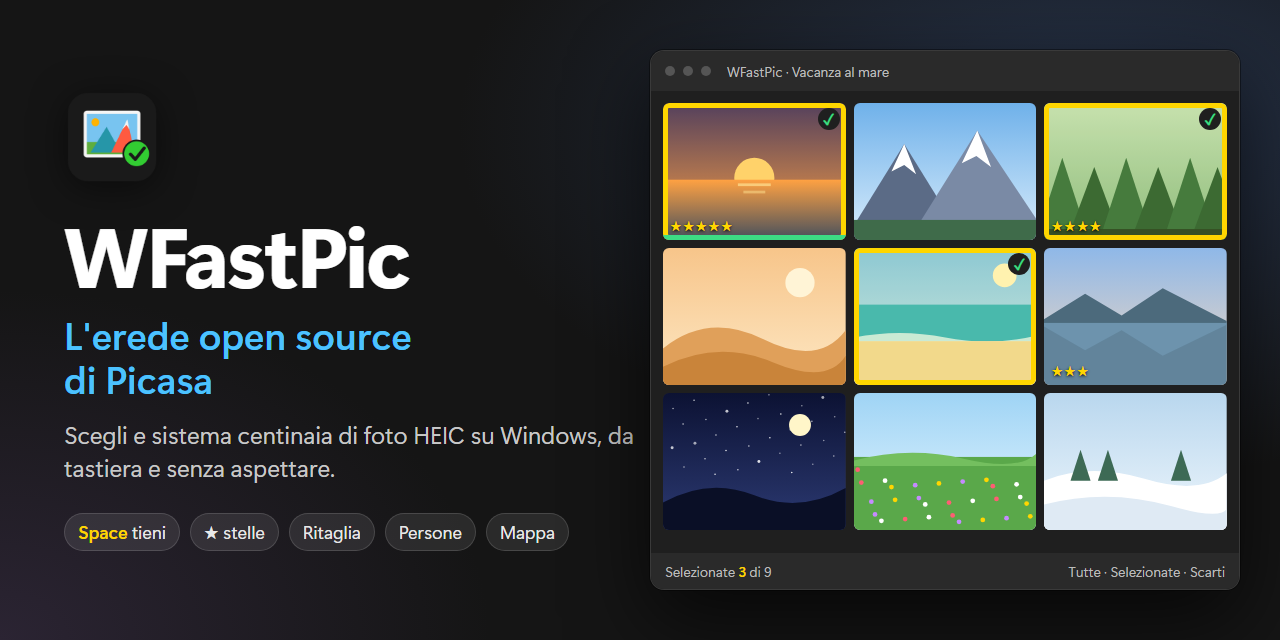
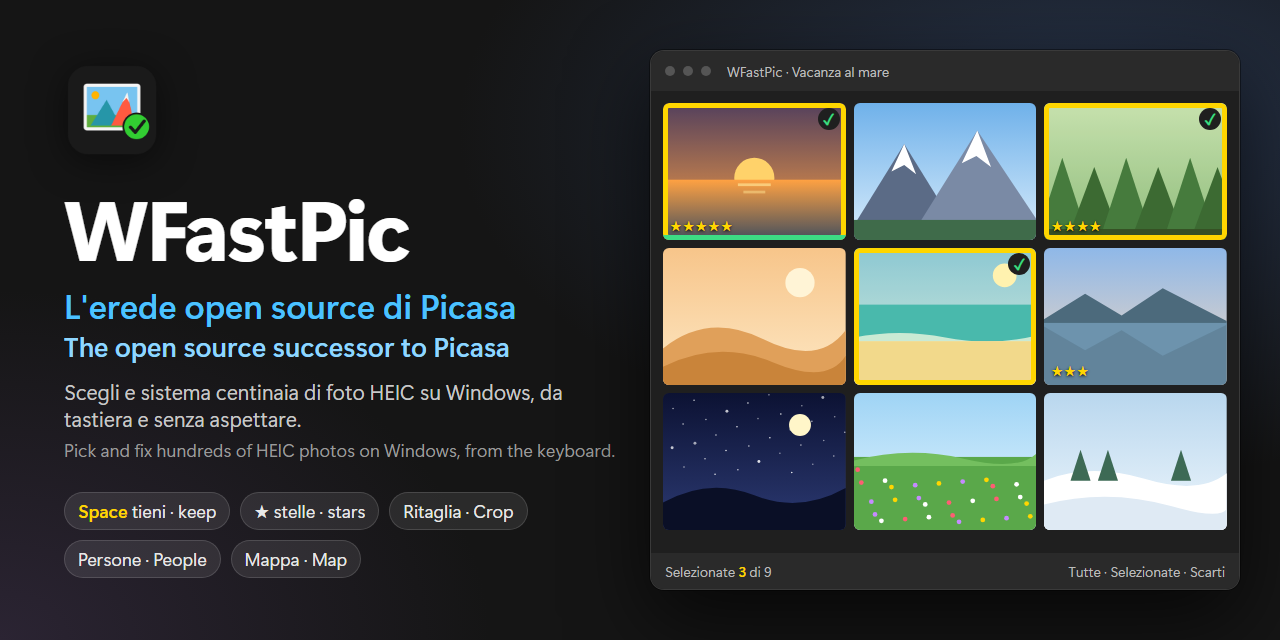
Versione in inglese: README.en.md, CHANGELOG.en.md e social preview bilingue

Changed region(s): [[0.0312, 0.3125, 0.5, 0.75], [0.0625, 0.7812, 0.4375, 0.9062], [0.0625, 0.125, 0.125, 0.2812]]

diff --git a/assets/social-preview.html b/assets/social-preview.html
@@ -24,7 +24,10 @@
   .logo { width: 96px; height: 96px; margin-bottom: 26px; filter: drop-shadow(0 6px 18px rgba(0,0,0,.5)); }
   h1 { font-size: 84px; font-weight: 700; letter-spacing: -2px; line-height: 1; }
   .erede { margin-top: 18px; font-size: 38px; font-weight: 600; line-height: 1.15; color: #4cc2ff; }
-  .sotto { margin-top: 18px; font-size: 24px; line-height: 1.35; color: #c8c8c8; }
+  .erede { font-size: 34px; }
+  .erede.en { margin-top: 6px; font-size: 27px; font-weight: 500; color: #8fd6ff; }
+  .sotto { margin-top: 16px; font-size: 21px; line-height: 1.3; color: #c8c8c8; }
+  .sotto.en { margin-top: 6px; font-size: 18px; color: #9a9a9a; }
   .tag { margin-top: 30px; display: flex; flex-wrap: wrap; gap: 10px; }
   .tag span { font-size: 18px; padding: 6px 13px; border-radius: 999px; background: rgba(255,255,255,.09); border: 1px solid rgba(255,255,255,.14); color: #e8e8e8; }
   .tag b { color: #ffd600; font-weight: 600; }
@@ -53,9 +56,11 @@
   <div class="testo">
     <img class="logo" src="icon-256.png" alt="">
     <h1>WFastPic</h1>
-    <div class="erede">L'erede open source<br>di Picasa</div>
+    <div class="erede">L'erede open source di Picasa</div>
+    <div class="erede en">The open source successor to Picasa</div>
     <div class="sotto">Scegli e sistema centinaia di foto HEIC su Windows, da tastiera e senza aspettare.</div>
-    <div class="tag"><span><b>Space</b> tieni</span><span>★ stelle</span><span>Ritaglia</span><span>Persone</span><span>Mappa</span></div>
+    <div class="sotto en">Pick and fix hundreds of HEIC photos on Windows, from the keyboard.</div>
+    <div class="tag"><span><b>Space</b> tieni · keep</span><span>★ stelle · stars</span><span>Ritaglia · Crop</span><span>Persone · People</span><span>Mappa · Map</span></div>
   </div>
 
   <div class="finestra">

diff --git a/CHANGELOG.en.md b/CHANGELOG.en.md
@@ -1,0 +1,96 @@
+# Changelog
+
+What is new in WFastPic, version by version. The newest is on top. ([Italiano](CHANGELOG.md))
+Technical details (bug causes, files touched) are in [`doc/correzioni-e-novita.md`](doc/correzioni-e-novita.md) (in Italian).
+The app interface is in Italian: names of buttons and menus below are given as they appear in the app.
+
+## [0.9.1] — 2026-10-10
+
+### New
+- **Faster export**: photos are processed 4 at a time (3 at original size) instead of one by one: about
+  twice as fast at 2048 px and up to 3 times as fast at original size.
+- **Estimated time in export**: "N of M · about X remaining", and how long it took when finished.
+- **People, "Same person as…" ("È la stessa persona di…")** with faces: a large round avatar, name and
+  photo count for each person, instead of a text-only menu. After merging, the list and the photos below
+  update: if you were looking at that group, you see the person who remains with all their photos.
+- **Crop and straighten together**, like Picasa: while cropping, the straighten slider sits under the
+  photo (wider and more precise, with marks every 5° and a "0°" button to clear it).
+- **Landscape/portrait crop**: the crop box can be flipped (4:3 ↔ 3:4, 16:9 ↔ 9:16) with the button next
+  to "Proporzioni" (Ratios) or with the `O` key.
+- **About WFastPic** (bottom right): version, license, links to the project and the changelog, credits,
+  the app data folder.
+- MIT license included in the repository.
+
+### Fixed
+- **Stretched portrait photos**: photos with a 90° EXIF orientation (typical of phones, in JPEG) appeared
+  stretched wide in the viewer, in the editor and in export. They now keep the right proportions.
+- People: face analysis worked on those same stretched images; for more faithful recognition on such
+  photos, use "Rianalizza le persone" (Re-analyze people).
+
+## [0.9] — 2026-10-10
+
+### New
+
+**Editor (viewer)**
+- **Rotate 90° and flip**: ↺ ↻ and Specchia (Flip) buttons in the basic corrections, `R` / `Shift+R`
+  keys. A photo that is already cropped keeps the same crop, just rotated. It also applies to export, and
+  thumbnails in the grid and filmstrip rotate immediately. Like every edit, the original is never touched.
+- **Three columns**: edits on the left, photo details on the right, both collapsible from the "Modifiche"
+  and "Dettagli" buttons at the top. The app remembers how you leave them.
+- **Photo details**: weekday, date and time shot, name, file size and format, position in the burst,
+  place with mini-map and shooting data.
+- **Photos from the same burst** shown small next to the photo: above it if landscape, beside it if
+  portrait. One click opens that photo, so you pick the best one on the fly.
+- **Faster browsing**: while a photo loads you immediately see its enlarged thumbnail; the next 5 photos in
+  the direction you are browsing are prepared in advance.
+- New look: "← Grid · name · N of M" bar, card-style panel with segmented tabs and buttons with icon and
+  shortcut, filmstrip centered under the photo, solid background.
+
+**Main window**
+- New Windows 11 look: integrated title bar, dark theme, grid on a darker background with rounded thumbnails.
+- The toolbar no longer overflows the window: when narrow, By day / Map / Rejects show only their icon.
+  "Esporta" (Export) is the highlighted action.
+- Welcome screen with "Apri una cartella…" (Open a folder…); clear messages if the folder has no photos or
+  if the filter finds nothing.
+- Counts (photos, selected, rejects) in the bottom bar; all shortcuts in a "Scorciatoie" (Shortcuts) panel.
+- **Resumes where you left off**: on restart you go back to the last photo you looked at, in the viewer if
+  it was open.
+
+**People**
+- Picasa-style people recognition (optional, asked on first use, entirely on your PC): groups of similar
+  faces, names valid across all folders, automatic suggestions, filter by person.
+- People list in the side panel, alphabetical, with the photo count in other folders too. Rename,
+  "Same person as…" (with Undo), change picture, delete.
+
+**Other**
+- "Original" ratio (the photo's own) among the crops.
+- Folder panel hidden while using the editor, restored on exit.
+
+### Fixed
+- The "Lettura foto…" (Reading photos…) box could stay over the grid forever if reading the folder ended
+  just as it was about to appear.
+- While browsing, a photo already being prepared in advance was decoded a second time.
+- Names given to people during analysis were not applied to the photos analyzed afterwards.
+- `OverflowException` crash while reading a folder.
+
+## [0.8] — 2026-10-10
+
+### New
+- **Picasa-style folder panel**, fixed next to the grid: folders split by year shot, with photo count and
+  period; "Open in File Explorer" / "Remove from list"; "Browse PC" to open new ones.
+- **Faces**: background search once the grid is ready, "With faces" filter; suggested crops never cut faces.
+- **Location correction on a large map** in place of the photo (map or satellite, down to street level zoom).
+- While cropping, the composition grid follows the crop box.
+- Edit symbols (crop, straighten, color) on thumbnails, updated live.
+- Version shown in the window title.
+
+## Before 0.8
+
+The first, unnumbered versions built the foundations of the app:
+- fast reading of HEIC folders with a sidecar per folder (original photos are never written);
+- grid with keyboard selection, stars, safe rejects (Recycle Bin or `Scarti/` folder, paired video always
+  together with the photo), bursts and "keep this one, reject the others";
+- viewer with filmstrip, zoom and Picasa-style editor: crop, straighten, I'm Feeling Lucky, adjustments, undo;
+- suggested crops, full screen (F11), grid split by day;
+- places with names from OpenStreetMap, photo map, shooting data (including DJI drones);
+- Picasa-style JPEG export with resizing, watermark, tags and metadata (date, GPS).

diff --git a/README.en.md b/README.en.md
@@ -1,0 +1,116 @@
+<p align="center">
+  <img src="assets/icon-256.png" width="96" alt="WFastPic logo">
+</p>
+
+# WFastPic
+
+**The open source successor to Google Picasa for Windows: pick and fix hundreds of photos fast.**
+Current version: **0.9.1** · [Download](https://github.com/Walt7/WFastPic/releases/latest) ·
+[Changelog](CHANGELOG.en.md) · [Italiano](README.md)
+
+Google stopped developing Picasa in 2016, and it does not read the HEIC photos phones take today.
+WFastPic keeps the way Picasa worked — folders by year, the space bar to keep the good shots,
+one-click fixes, people, map, export — and is built for large photo collections, especially **HEIC**
+(iPhones, drones, cameras): open the vacation folder, keep the best, reject the rest, make a few quick
+fixes and export. All from the keyboard, without ever waiting.
+
+It is not Lightroom and not a file manager: it is the tool for going from 1,300 shots to the 80 photos
+worth keeping, in as few gestures as possible.
+
+> The app interface is in Italian. Everything else (this page, the changelog) is available in both languages.
+
+## From Picasa to WFastPic
+
+| In Picasa | In WFastPic |
+|---|---|
+| Folders grouped by year | Folder panel by year, with photo count and period |
+| Stars and "kept" photos | `Space` selects, `0`–`5` stars, `Delete` rejects (never an irreversible delete) |
+| "I'm Feeling Lucky" | `U`: automatic contrast and color in one go |
+| Crop and straighten | Crop with ratios and suggested crops, straightening together with cropping |
+| People (named faces) | Face recognition on your PC, names shared across folders, "Same person as…" |
+| Photos on a map | Photo map and place names |
+| Export | Resized JPEGs, watermark, tags, date and GPS preserved |
+| — | Bursts detected automatically, HEIC photos, Live Photos, DJI drone data |
+
+**What is not there (by choice or not yet):** collages and slideshows, web albums, video playback,
+advanced photo editing (curves, masks). WFastPic does not upload your photos anywhere.
+
+## What it does
+
+**Pick**
+- Fast grid even with thousands of photos, in shooting order, optionally split by day.
+- `Space` selects, `Delete` rejects, `0`–`5` stars, `Tab` switches the filter.
+- **Bursts** detected automatically (photos taken seconds apart): `Shift+Space` keeps this one and
+  rejects the rest of the group. In the editor the photos of the same burst appear small next to the
+  photo, so you can compare them at a glance.
+- Rejects are never deleted by accident: they go to the Windows Recycle Bin (with confirmation) or to a
+  `Scarti/` folder, always together with the paired video (Live Photo).
+
+**Fix** (the original is never touched)
+- Crop with ratios and suggested crops that do not cut faces; straighten; rotate by 90° and flip.
+- "I'm Feeling Lucky", automatic contrast and color, fill light, highlights, shadows, temperature.
+- Undo / redo, `B` to see the original, full screen with `F11`.
+- Details column: weekday, date and time, file, place with mini-map, device and shooting data
+  (including DJI drone altitude and gimbal).
+
+**Find again**
+- Folders grouped by year, like Picasa.
+- Photo map, place names, location correctable by hand.
+- People (optional): similar faces grouped, to which you give a name that works across all folders.
+
+**Export**
+- JPEG at original or reduced size, chosen quality, watermark, tags.
+- Shooting date and GPS position preserved (or removed, if you prefer).
+
+## Requirements
+
+- Windows 10 (1809 or later) or Windows 11, x64 or ARM64.
+- HEIC photos need the Windows **HEIF** and **HEVC** extensions: they are usually already installed; if
+  photos do not open, install them from the Microsoft Store.
+
+## Build and run
+
+You need the [.NET 10](https://dotnet.microsoft.com/download) SDK. Visual Studio is optional.
+
+```bash
+dotnet build WFastPic.slnx
+```
+
+The app is then in `src/WFastPic.App/bin/x64/Debug/net10.0-windows10.0.22621.0/win-x64/WFastPic.App.exe`.
+
+Tests:
+
+```bash
+dotnet test tests/WFastPic.Core.Tests
+```
+
+## Main shortcuts
+
+| Where | Keys |
+|---|---|
+| Grid and editor | `←` / `→` previous / next photo · `Space` select · `Delete` reject · `0`–`5` stars |
+| Grid | `Shift+Space` keep and reject the rest of the burst · `Tab` filter · `Ctrl+A` select visible · `Shift+wheel` thumbnail size · `Enter` open |
+| Editor | `X` crop · `L` straighten · `R` / `Shift+R` rotate · `U` I'm Feeling Lucky · `B` original · `Ctrl+Z` / `Ctrl+Y` · `F11` full screen · `Esc` close |
+
+The full list is in the app, under "Scorciatoie" (shortcuts) in the bottom bar.
+
+## Your photos stay yours
+
+- Original photos are never modified: selections, stars and edits live in a hidden `.wfastpic` folder
+  next to the photos.
+- Everything runs on your PC. The only requests that leave it are ones you can turn off or choose:
+  - place names asked from OpenStreetMap (can be turned off from the map) and the map tiles;
+  - the face recognition models, downloaded once from Hugging Face (OpenCV) only if you enable the
+    option. Your photos never leave your PC.
+
+## For developers
+
+- Architecture, conventions and project status: [`AGENTS.md`](AGENTS.md) (in Italian).
+- What is new in each version: [`CHANGELOG.en.md`](CHANGELOG.en.md).
+- C# + WinUI 3 (Windows App SDK), HEIC decoding with WIC, one SQLite sidecar per folder. The logic lives
+  in the `WFastPic.Core.*` projects, with no WinUI dependency, and is covered by xUnit tests.
+
+## License
+
+[MIT](LICENSE): you can use, modify and redistribute it freely, keeping the copyright notice.
+Not affiliated with Google.

diff --git a/README.md b/README.md
@@ -6,7 +6,7 @@
 
 **L'erede open source di Picasa per Windows: scegliere e sistemare in fretta centinaia di foto.**
 Versione attuale: **0.9.1** · [Scarica](https://github.com/Walt7/WFastPic/releases/latest) ·
-[novità](CHANGELOG.md) · [English below](#english)
+[novità](CHANGELOG.md) · [English version](README.en.md) · [English below](#english)
 
 Google ha smesso di sviluppare Picasa nel 2016 e non legge le foto HEIC dei telefoni di oggi. WFastPic ne riprende il modo di lavorare — cartelle per anno, la barra spaziatrice
 per tenere le foto buone, ritocchi con un clic, persone, mappa, export — ed è pensato per le grandi

diff --git a/CHANGELOG.md b/CHANGELOG.md
@@ -1,6 +1,6 @@
 # Changelog
 
-Le novità di WFastPic, versione per versione. La più recente è in cima.
+Le novità di WFastPic, versione per versione. La più recente è in cima. ([English](CHANGELOG.en.md))
 I dettagli tecnici (cause dei bug, file toccati) sono in [`doc/correzioni-e-novita.md`](doc/correzioni-e-novita.md).
 
 ## [0.9.1] — 2026-10-10
